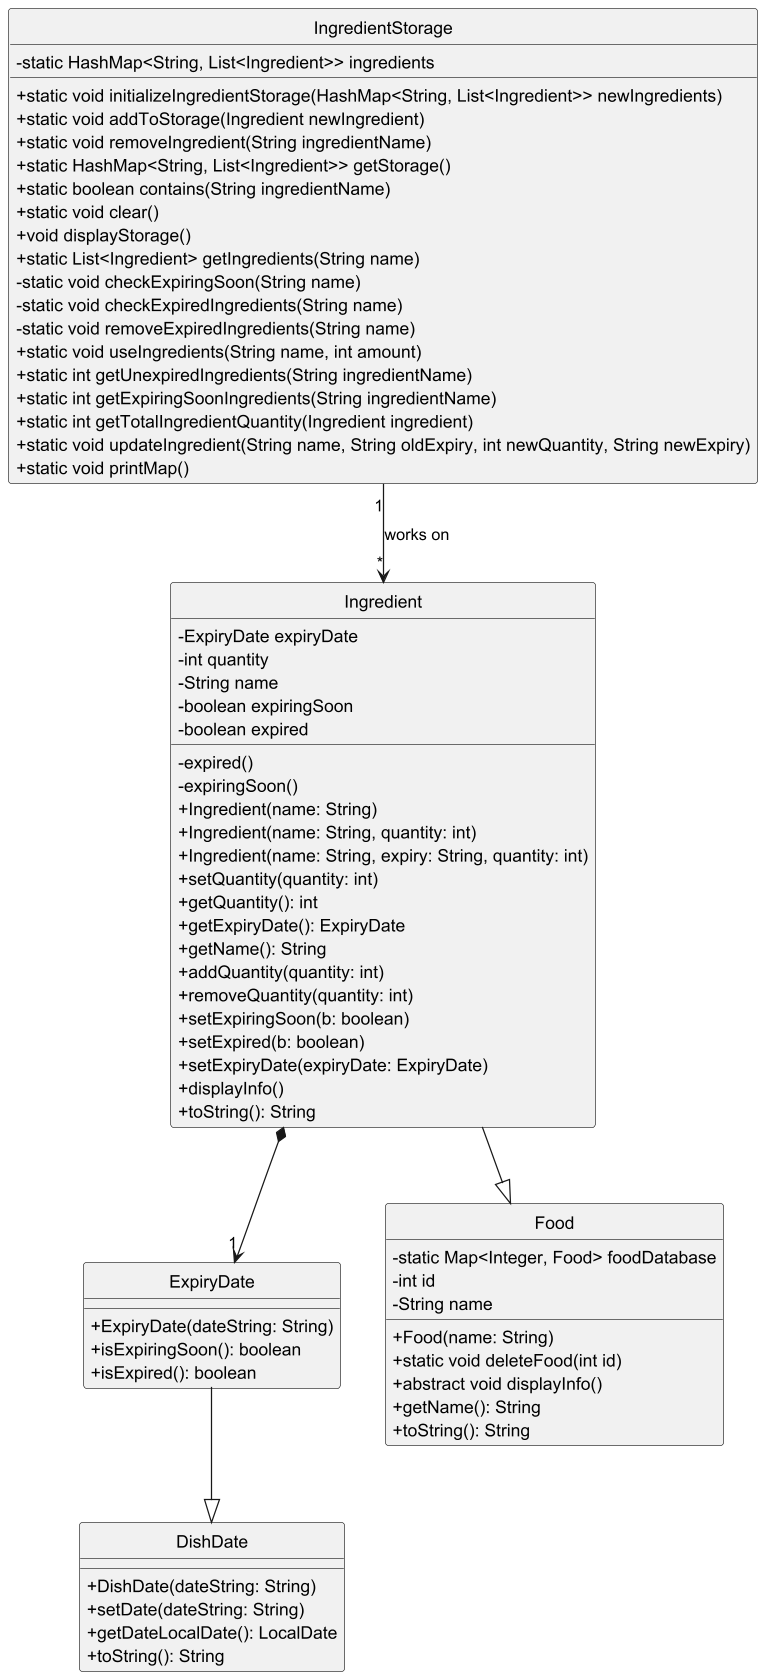
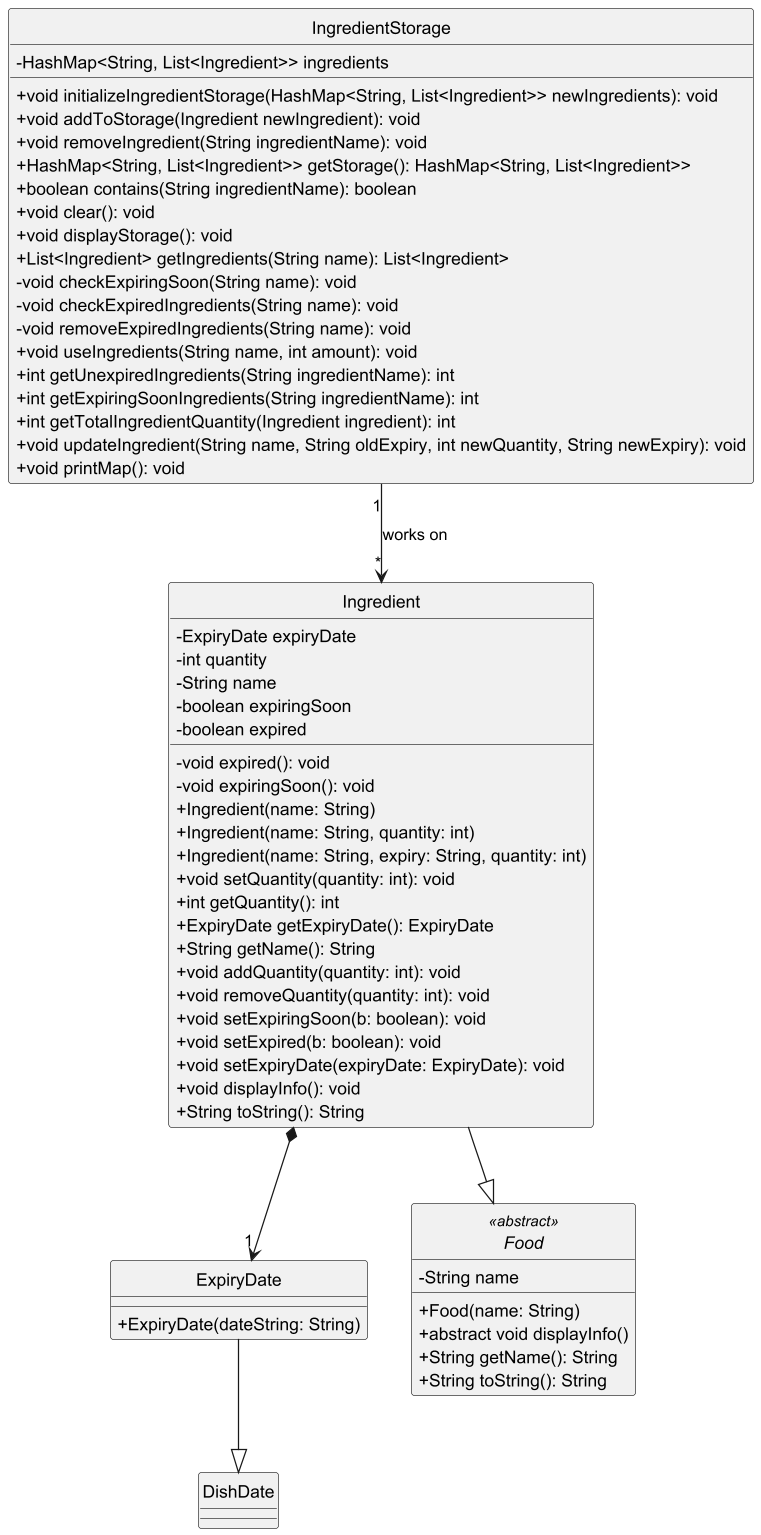
Fixed Uml diagram

diff --git a/docs/DeveloperGuide.md b/docs/DeveloperGuide.md
@@ -107,7 +107,7 @@ file.
 
 The following is a class diagram of one of the classes `IngredientStorage`.
 
-![img.png](images/ingredientStorage.png)
+![img.png](images/IngredientStorage.png)
 
 <div style="page-break-after: always;"></div>
 
